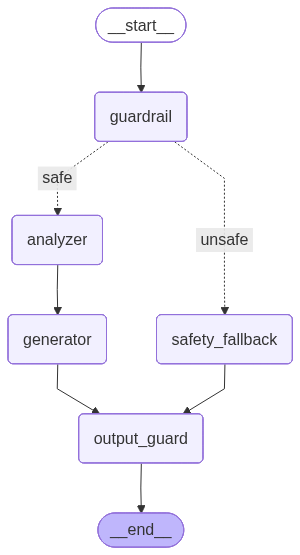
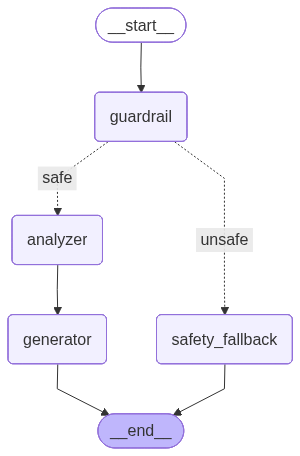
system update and success run

diff --git a/app.py b/app.py
@@ -1,0 +1,179 @@
+import warnings
+
+# Suppress serialization and deprecation warnings cluttering the console
+warnings.filterwarnings("ignore", category=UserWarning, module="pydantic")
+warnings.filterwarnings("ignore", category=DeprecationWarning)
+
+import uuid
+import time
+import streamlit as st
+
+# Import your compiled LangGraph instance
+from src.graph import bot_graph
+
+st.set_page_config(
+    page_title="Magic English Companion",
+    layout="wide",
+    page_icon="🧸"
+)
+
+# 1. Master dict for Chat Histories
+if "conversations" not in st.session_state:
+    st.session_state.conversations = {}
+
+# 2. Master dict for Tutor Metrics
+if "thread_metrics" not in st.session_state:
+    st.session_state.thread_metrics = {}
+
+def create_new_chat_session():
+    new_id = str(uuid.uuid4())
+    st.session_state.thread_id = new_id
+    st.session_state.conversations[new_id] = []
+    st.session_state.thread_metrics[new_id] = {
+        "level": "L1", 
+        "mode": "Conversation", 
+        "mood": "Happy"
+    }
+    return new_id
+
+# Initialize first session
+if "thread_id" not in st.session_state:
+    create_new_chat_session()
+
+
+# ===================== SIDEBAR =====================
+with st.sidebar:
+    st.title("⚙ Classroom Control")
+
+    st.markdown(f"**Session ID:** `{st.session_state.thread_id[:8]}`")
+
+    if st.button("🧹 Clear Current Chat"):
+        st.session_state.conversations[st.session_state.thread_id] = []
+        st.rerun()
+        
+    st.title("💬 Past Lessons")
+
+    # List all conversations
+    for tid, msgs in st.session_state.conversations.items():
+        title = "New Chat"
+        for m in msgs:
+            if m["role"] == "user":
+                title = m["content"][:28] + "..."
+                break
+
+        if st.button(title, key=tid, use_container_width=True):
+            st.session_state.thread_id = tid
+            st.rerun()
+
+    st.divider()
+    
+    if st.button("➕ New Lesson (New Chat)", use_container_width=True):
+        create_new_chat_session()
+        st.rerun()
+        
+    st.divider()
+    
+    active_stats = st.session_state.thread_metrics[st.session_state.thread_id]
+    st.subheader("📊 Child Tracker")
+    st.metric(label="English Level", value=active_stats["level"])
+    st.metric(label="Tutor Mode", value=active_stats["mode"])
+    st.metric(label="Detected Mood", value=active_stats["mood"])
+
+    st.subheader("🔍 Debug")
+    show_debug = st.toggle("Show LangGraph Output", value=False)
+
+
+# ===================== MAIN =====================
+st.title("🧸 Magic English Companion")
+st.caption("AI Tutor for children under 7 | Powered by gpt-4.1-nano-2025-04-14")
+
+current_thread = st.session_state.thread_id
+
+if current_thread not in st.session_state.conversations:
+    st.session_state.conversations[current_thread] = []
+    st.session_state.thread_metrics[current_thread] = {"level": "L1", "mode": "Conversation", "mood": "Happy"}
+
+st.session_state.messages = st.session_state.conversations[current_thread]
+active_stats = st.session_state.thread_metrics[current_thread]
+
+
+# ===================== CHAT DISPLAY =====================
+chat_container = st.container()
+
+with chat_container:
+    if not st.session_state.messages:
+        st.info("👋 **Welcome!** Try saying *'Hello!'* or *'Look at my dog!'* to start learning.")
+        
+    for msg in st.session_state.messages:
+        with st.chat_message(msg["role"]):
+            st.markdown(msg["content"])
+            
+            # --- PERSISTENT SUB-FIELD DISPLAY ---
+            # If it's an assistant message and contains metadata, render it conditionally
+            if msg["role"] == "assistant" and "metadata" in msg:
+                meta = msg["metadata"]
+                if show_debug:
+                    st.caption(f"⏱ [Latency: {meta['latency']:.2f}s] | [Level: {meta['level']}] | [Mode: {meta['mode']}] | [Mood: {meta['mood']}]")
+                else:
+                    st.caption(f"⚡ Latency: {meta['latency']:.2f}s")
+
+
+# ===================== INPUT =====================
+prompt = st.chat_input("Talk to your English buddy...")
+
+if prompt:
+    st.session_state.messages.append({"role": "user", "content": prompt})
+
+    with st.chat_message("user"):
+        st.markdown(prompt)
+
+    # ===================== LANGGRAPH CALL =====================
+    with st.chat_message("assistant"):
+        with st.spinner("Thinking... 🤔"):
+            start_time = time.time()
+
+            try:
+                graph_config = {"configurable": {"thread_id": current_thread}}
+                
+                payload = {
+                    "user_input": prompt,
+                    "current_level": active_stats["level"],
+                    "current_mode": active_stats["mode"],
+                    "child_mood": active_stats["mood"]
+                }
+                
+                output_state = bot_graph.invoke(payload, config=graph_config)
+                
+                answer = output_state["response"]
+                latency = time.time() - start_time
+                
+                new_lvl = output_state.get("current_level", active_stats["level"])
+                new_mode = output_state.get("current_mode", active_stats["mode"])
+                new_mood = output_state.get("child_mood", active_stats["mood"])
+                
+                st.session_state.thread_metrics[current_thread].update({
+                    "level": new_lvl,
+                    "mode": new_mode,
+                    "mood": new_mood
+                })
+
+            except Exception as e:
+                answer = f"❌ System Error: {str(e)}"
+                latency = 0.0
+                new_lvl, new_mode, new_mood = active_stats["level"], active_stats["mode"], active_stats["mood"]
+
+            st.markdown(answer)
+
+    # 2. Save assistant message along with its tracking values
+    st.session_state.messages.append({
+        "role": "assistant",
+        "content": answer,
+        "metadata": {
+            "latency": latency,
+            "level": new_lvl,
+            "mode": new_mode,
+            "mood": new_mood
+        }
+    })
+    
+    st.rerun()

diff --git a/src/nodes.py b/src/nodes.py
@@ -1,0 +1,109 @@
+from typing import Dict, Any, Literal
+from pydantic import BaseModel, Field
+from langchain_core.prompts import ChatPromptTemplate
+from config import llm
+from src.state import ChatbotState
+
+class ChildStateAnalysis(BaseModel):
+    detected_mood: str = Field(description="Emotional state: Happy, Sad, Frustrated, Bored, Energetic.")
+    recommended_mode: Literal["Learning", "Conversation", "Engagement", "Support"] = Field(
+        description="Support if sad/frustrated, Engagement if bored/distracted, Learning if ready to study, Conversation for casual chat."
+    )
+    recommended_level: Literal["L1", "L2", "L3"] = Field(
+        description="L1: phonics/letters, L2: vocabulary words, L3: simple sentences."
+    )
+
+def analyzer_node(state: ChatbotState) -> Dict[str, Any]:
+    """Evaluates mood and mode, taking recent history into account to avoid abrupt topic shifts."""
+    
+    # Grab the last two messages so the analyzer knows the context of short answers like "yes"
+    recent_history = state.get("chat_history", [])[-2:]
+    history_text = "\n".join([f"{msg['role']}: {msg['content']}" for msg in recent_history])
+    
+    analyzer_prompt = ChatPromptTemplate.from_messages([
+        ("system", (
+            "Analyze the child's input to determine their mood and the next interaction mode.\n"
+            "Current Level: {current_level}, Current Mode: {current_mode}.\n\n"
+            "CRITICAL RULES:\n"
+            "1. If the child simply says 'yes', 'ok', or agrees, look at the Recent History. If the Tutor just offered to teach something, keep the mode as 'Learning'.\n"
+            "2. Do NOT switch to 'Engagement' (riddles/jokes) unless the child explicitly says they are bored, ignores the question entirely, or tries to change the subject."
+        )),
+        ("human", "Recent History:\n{history}\n\nChild's Input: {input}")
+    ])
+    
+    structured_llm = llm.with_structured_output(ChildStateAnalysis)
+    chain = analyzer_prompt | structured_llm
+    
+    try:
+        analysis = chain.invoke({
+            "current_level": state.get("current_level", "L1"),
+            "current_mode": state.get("current_mode", "Conversation"),
+            "history": history_text if history_text else "None",
+            "input": state["user_input"]
+        })
+        return {
+            "child_mood": analysis.detected_mood,
+            "current_mode": analysis.recommended_mode,
+            "current_level": analysis.recommended_level
+        }
+    except Exception:
+        return {
+            "child_mood": state.get("child_mood", "Happy"),
+            "current_mode": state.get("current_mode", "Conversation"),
+            "current_level": state.get("current_level", "L1")
+        }
+
+def content_generator_node(state: ChatbotState) -> Dict[str, Any]:
+    """Generates localized, kid-safe responses while strictly following previous promises."""
+    level_instructions = {
+        "L1": "Target age <5. Single letters, phonic sounds, basic fruits/animals.",
+        "L2": "Target age 5-6. Vocabulary creation, colors, spatial actions.",
+        "L3": "Target age 6-7. Basic complete sentences. Prompt open conversational outputs."
+    }
+    
+    mode_instructions = {
+        "Learning": "Deliver an active micro-lesson or simple English query question based strictly on the topic at hand.",
+        "Conversation": "Engage playfully, offering high enthusiasm and emojis.",
+        "Engagement": "The child seems distracted. Tell a tiny 2-sentence kid's riddle or joke to recapture attention.",
+        "Support": "The child is frustrated/sad. Halt lessons immediately. Validate emotions with love and encouragement."
+    }
+
+    history_text = ""
+    recent_history = state.get("chat_history", [])[-6:]
+    for msg in recent_history:
+        speaker = "Child" if msg["role"] == "user" else "Tutor"
+        history_text += f"{speaker}: {msg['content']}\n"
+
+    generator_prompt = ChatPromptTemplate.from_messages([
+        ("system", (
+            "You are a loving, animated AI English tutor for children under 7.\n"
+            "Keep answers tiny (1-3 sentences max), highly supportive, and easy to read.\n\n"
+            "Level Guide: {level_info}\n"
+            "Mode Objective: {mode_info}\n"
+            "Current Mood: {mood}\n\n"
+            "CRITICAL CONTINUITY RULE: Review the Recent History. If you (Tutor) just promised to teach a specific letter, word, or topic, and the Child agreed, you MUST deliver that specific lesson right now. Do not change the subject.\n\n"
+            "--- RECENT CONVERSATION HISTORY ---\n"
+            "{history}\n"
+            "-----------------------------------"
+        )),
+        ("human", "{input}")
+    ])
+    
+    chain = generator_prompt | llm
+    res = chain.invoke({
+        "level_info": level_instructions[state["current_level"]],
+        "mode_info": mode_instructions[state["current_mode"]],
+        "mood": state["child_mood"],
+        "history": history_text if history_text else "No previous history.",
+        "input": state["user_input"]
+    })
+    
+    updated_history = state.get("chat_history", []) + [
+        {"role": "user", "content": state["user_input"]},
+        {"role": "assistant", "content": res.content}
+    ]
+    
+    return {
+        "response": res.content,
+        "chat_history": updated_history
+    }

diff --git a/src/safety.py b/src/safety.py
@@ -1,0 +1,39 @@
+from typing import Dict, Any, Literal
+from pydantic import BaseModel, Field
+from langchain_core.prompts import ChatPromptTemplate
+from config import llm
+from src.state import ChatbotState
+
+class SafetyAssessment(BaseModel):
+    is_safe: bool = Field(description="False if input has medical, hacking, sexual, or abusive/aggressive text.")
+    reason: str = Field(description="Brief reason.")
+
+def guardrail_node(state: ChatbotState) -> Dict[str, Any]:
+    """Inspects incoming messages for safety using structured evaluation."""
+    guardrail_prompt = ChatPromptTemplate.from_messages([
+        ("system", "You are a strict safety validator for an under-7 kid's app. Flags unsafe topics (medical advice, hacking, sexual content, or aggressive language)."),
+        ("human", "{input}")
+    ])
+    
+    structured_llm = llm.with_structured_output(SafetyAssessment)
+    chain = guardrail_prompt | structured_llm
+    try:
+        result = chain.invoke({"input": state["user_input"]})
+        return {"is_safe": result.is_safe}
+    except Exception:
+        # Fail safe if parsing or model errors out
+        return {"is_safe": False}
+
+def safety_fallback_node(state: ChatbotState) -> Dict[str, Any]:
+    """Graceful deflection for unsafe prompts."""
+    fallback_text = "Oh, let's play a fun game instead! 🎈 Can you tell me your favorite animal, or should we sing the ABC song?"
+    return {
+        "response": fallback_text,
+        "chat_history": state.get("chat_history", []) + [
+            {"role": "user", "content": state["user_input"]},
+            {"role": "assistant", "content": fallback_text}
+        ]
+    }
+
+def route_safety(state: ChatbotState) -> Literal["safe", "unsafe"]:
+    return "safe" if state.get("is_safe", True) else "unsafe"

diff --git a/src/graph.py b/src/graph.py
@@ -1,0 +1,43 @@
+from langgraph.graph import StateGraph, START, END
+from langgraph.checkpoint.memory import MemorySaver
+
+from src.state import ChatbotState
+from src.safety import guardrail_node, safety_fallback_node, route_safety
+from src.nodes import analyzer_node, content_generator_node
+
+def create_compiled_graph():
+    builder = StateGraph(ChatbotState)
+    
+    # Register Nodes
+    builder.add_node("guardrail", guardrail_node)
+    builder.add_node("safety_fallback", safety_fallback_node)
+    builder.add_node("analyzer", analyzer_node)
+    builder.add_node("generator", content_generator_node)
+    
+    # Set Up Routing Workflow
+    builder.add_edge(START, "guardrail")
+    builder.add_conditional_edges(
+        "guardrail",
+        route_safety,
+        {
+            "safe": "analyzer",
+            "unsafe": "safety_fallback"
+        }
+    )
+    builder.add_edge("analyzer", "generator")
+    builder.add_edge("safety_fallback", END)
+    builder.add_edge("generator", END)
+    
+    # Attach persistent local memory checkpointer
+    memory_checkpointer = MemorySaver()
+    return builder.compile(checkpointer=memory_checkpointer)
+
+# Singleton compiled instance
+bot_graph = create_compiled_graph()
+
+# try:
+#     with open("workflow_graph.png", "wb") as f:
+#         f.write(bot_graph.get_graph().draw_mermaid_png())
+#     print("Graph saved successfully as 'workflow_graph.png'")
+# except Exception as e:
+#     print(class_name := type(e).__name__, f": {e}")

diff --git a/config.py b/config.py
@@ -3,13 +3,13 @@ from langchain_openai import ChatOpenAI
 from dotenv import load_dotenv
 load_dotenv()
 
-model = os.getenv("MODEL")
-print(model)
 
-LLM_MODEL = "gpt-4.1-nano-2025-04-14"
+
+
+LLM_MODEL = os.getenv("MODEL")
 
 llm = ChatOpenAI(
     model=LLM_MODEL, 
-    temperature=0.7,
+    temperature=0.0,
     max_retries=2
 )
